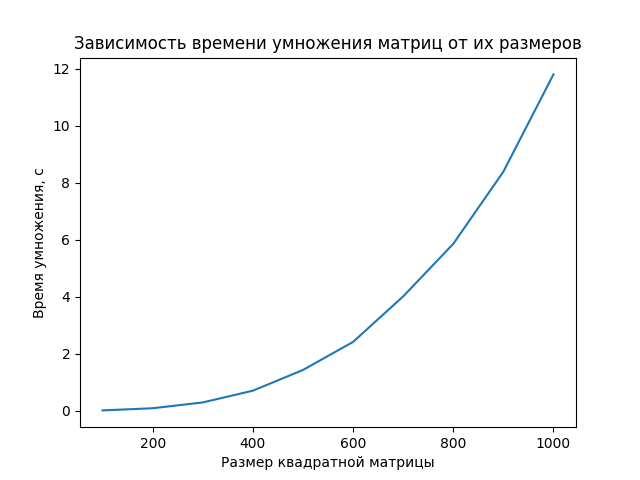
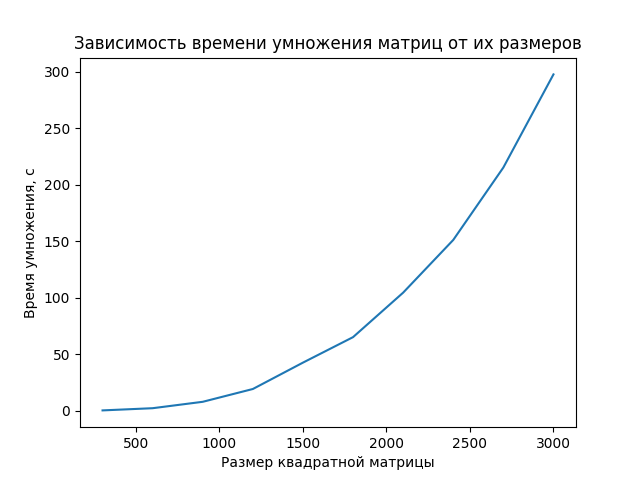
Made program parallel with OpenMP technology feat: matrixMultiply.cpp program parallel with OpenMP feat: Report.md changed for current programm modification

diff --git a/main.cpp b/main.cpp
@@ -1,7 +1,7 @@
 #include "matrixMultiply.cpp"
 #include "IOtoFile.cpp"
 
-#include <chrono>
+#include <omp.h>
 
 
 using namespace std;
@@ -10,11 +10,11 @@ using namespace std;
 void main() {
 	auto input = FileHandler::read_input_file("C:\\Users\\Acer\\Documents\\ParallelProgramming\\files\\input.txt");
 
-	auto start = chrono::high_resolution_clock::now();
+	double start = omp_get_wtime();
 	auto r = MatrixMultiplicator::multiply(input.first, input.second);
-	auto end = chrono::high_resolution_clock::now();
+	double end = omp_get_wtime();
 
-	double duration = chrono::duration<double>(end - start).count();
+	double duration = end - start;
 
 	FileHandler::write_output_file(r, duration, "C:\\Users\\Acer\\Documents\\ParallelProgramming\\files\\output.txt");
 }

diff --git a/main.py b/main.py
@@ -10,7 +10,7 @@ from file_handler import FileHandler
 EXPEREMENT_COUNT = 10
 
 times = []
-sizes = [i*100 for i in range(1, 11)]
+sizes = [i*300 for i in range(1, 11)]
 
 for matr_size in sizes:
     time = 0
@@ -30,7 +30,7 @@ for matr_size in sizes:
         if not allclose(res1, res2):
             raise ValueError("Wrong answer")
     times.append(time/EXPEREMENT_COUNT)
-    print(times)
+    print(f"{matr_size}: {times}")
 
 
 plt.plot(sizes, times)

diff --git a/matrixMultiply.cpp b/matrixMultiply.cpp
@@ -1,5 +1,6 @@
 #include <vector>
 #include <iostream>
+#include <omp.h>
 
 
 using namespace std;
@@ -25,7 +26,8 @@ public:
 		}
 
 		vector<vector<float>> res(rows_1, vector<float>(cols_2, 0));
-
+		
+		#pragma omp parallel for schedule(dynamic)
 		for (int i = 0; i < rows_1; ++i) {
 			for (int j = 0; j < cols_2; ++j) {
 				for (int k = 0; k < rows_2; ++k) {

diff --git a/Report.md b/Report.md
@@ -1,24 +1,24 @@
 # Отчет по лабораторной работе №1
 
 ## Задание 
-Написать программу на языке C/C++ для перемножения двух матриц.
-Исходные данные: файл(ы) содержащие значения исходных матриц.
-Выходные данные: файл со значениями результирующей матрицы, время выполнения, объем задачи.
-Обязательна автоматизированная верификация результатов вычислений с помощью сторонних библиотек или стороннего ПО (например на Matlab/Python).
+Модифицировать программу из л/р №1 для параллельной работы по технологии OpenMP.
 
-## Реализация
-На языке С++ написан класс `MatrixMultiplicator` для перемножения матриц, он используется программой `main.exe`, которая считывает исходные матрицы из входного файла `files/input.txt`, а результирующую матрицу и время выполнения, так же разделенные пустой строкой записывает в `files/output.txt`.
-В проекте есть директория `tests` с автоматизированными тестами `pytest`, сам файл для эксперимента находится в корневом каталоге - `main.py`.
-Тесты и модуль для эксперемента работают следующим образом:
-1. Входные матрицы генерируются/считываются из переменной и записываются в `files/input.txt`.
-2. Вызывается с помощью пакета `subprocess` исполняемый файл С++.
-3. `main.exe` считывает матрицы, проводит вычисления и записывает результаты в `files/output.txt`.
-4. Программа на Python считывает файл с ответом и проверяет его с получненной библиотекой `numpy` матрицей.
+## Изменения
+В `MatrixMultiplicator` умножение матриц теперь распараллелено по внешнему циклу директивой `omp parallel for schedule(dynamic)`.
+Таким образом, потоки будут выполнять вычисления для разных строк одновременно. Выбрано именно `schedule(dynamic)`, т.к. эмпирическим путем выявлено, что итерации выполняются различное время, из-за чего динамическая балансировка нагрузки показала себя лучше.
 
 ## Результат
-Полученный в итоге и усредненный график:
+График, полученный ранее для последовательной программы:
+
+![График](files/old_result.png)
+
+График, полученный для текущей программы:
+
+![График](files/to_compare.png)
+
+График для более больших размеров матриц:
 
 ![График](files/result.png)
 
 ## Вывод
-Операция умножения матриц имеет сложность *O(n^3)*, что хорошо отслеживается по графику.
+Операция умножения матриц имеет сложность *O(n^3)*, по графику все еще наблюдается нечто похожее, однако при сравнении с ранее полученными результатами можно сделать вывод: для распараллеленой программы этой оценкой сложности все же является *O(αn^3)*, где  α - некий коэфиициент, при чем  α<1.
